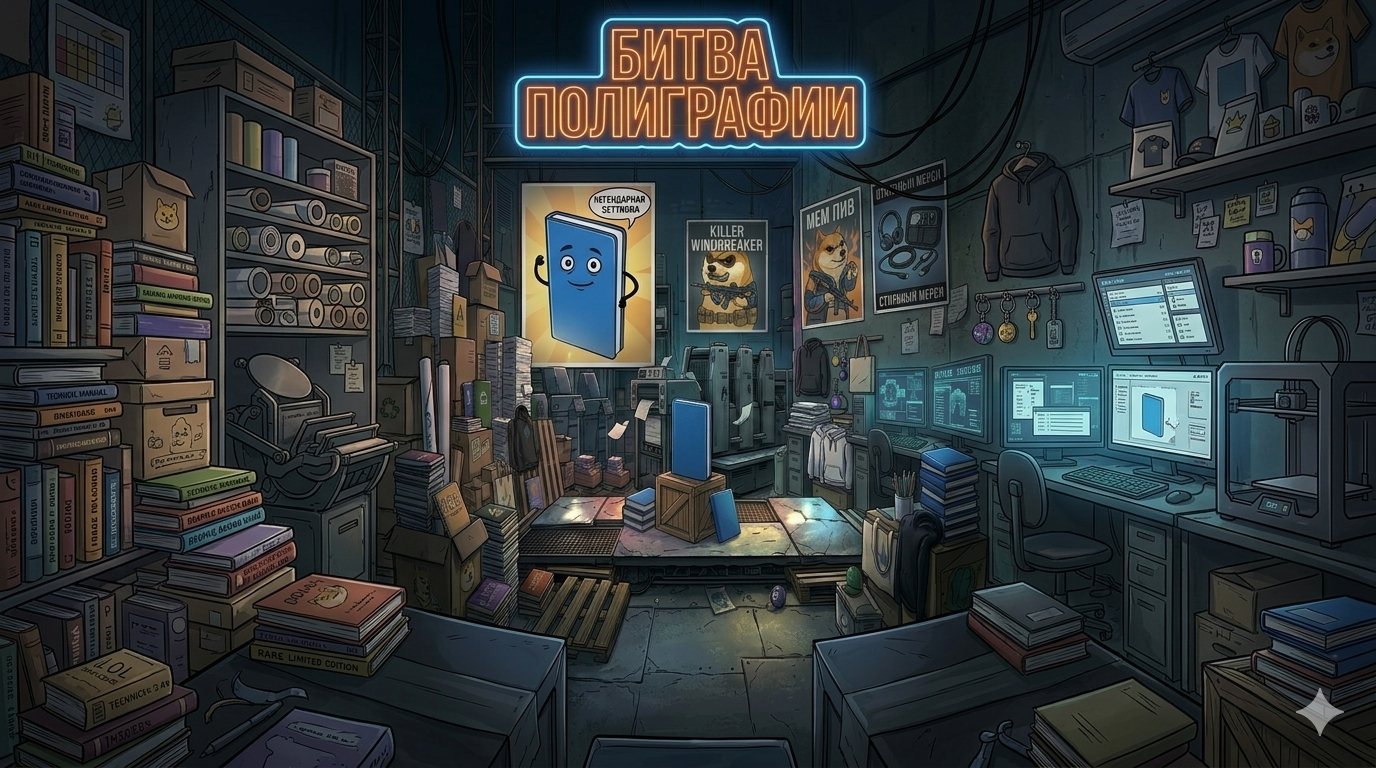
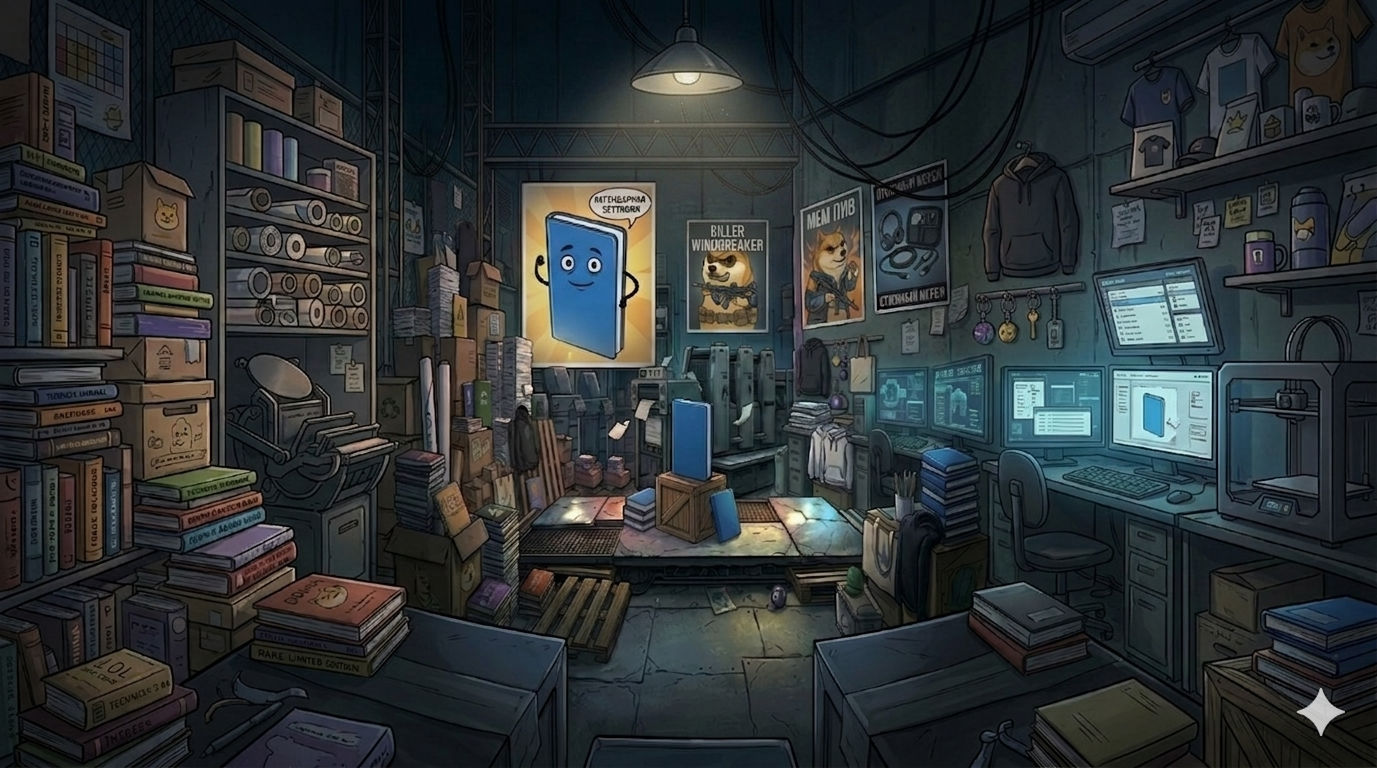
муки с текстом

diff --git a/src/views/MainPage.vue b/src/views/MainPage.vue
@@ -108,7 +108,7 @@ export default defineComponent({
 
             // Позиционируем готовую вывеску на экране
             logoContainer.x = app.screen.width / 2;
-            logoContainer.y = 360;
+            logoContainer.y = 200;
 
             app.stage.addChild(logoContainer);
 
